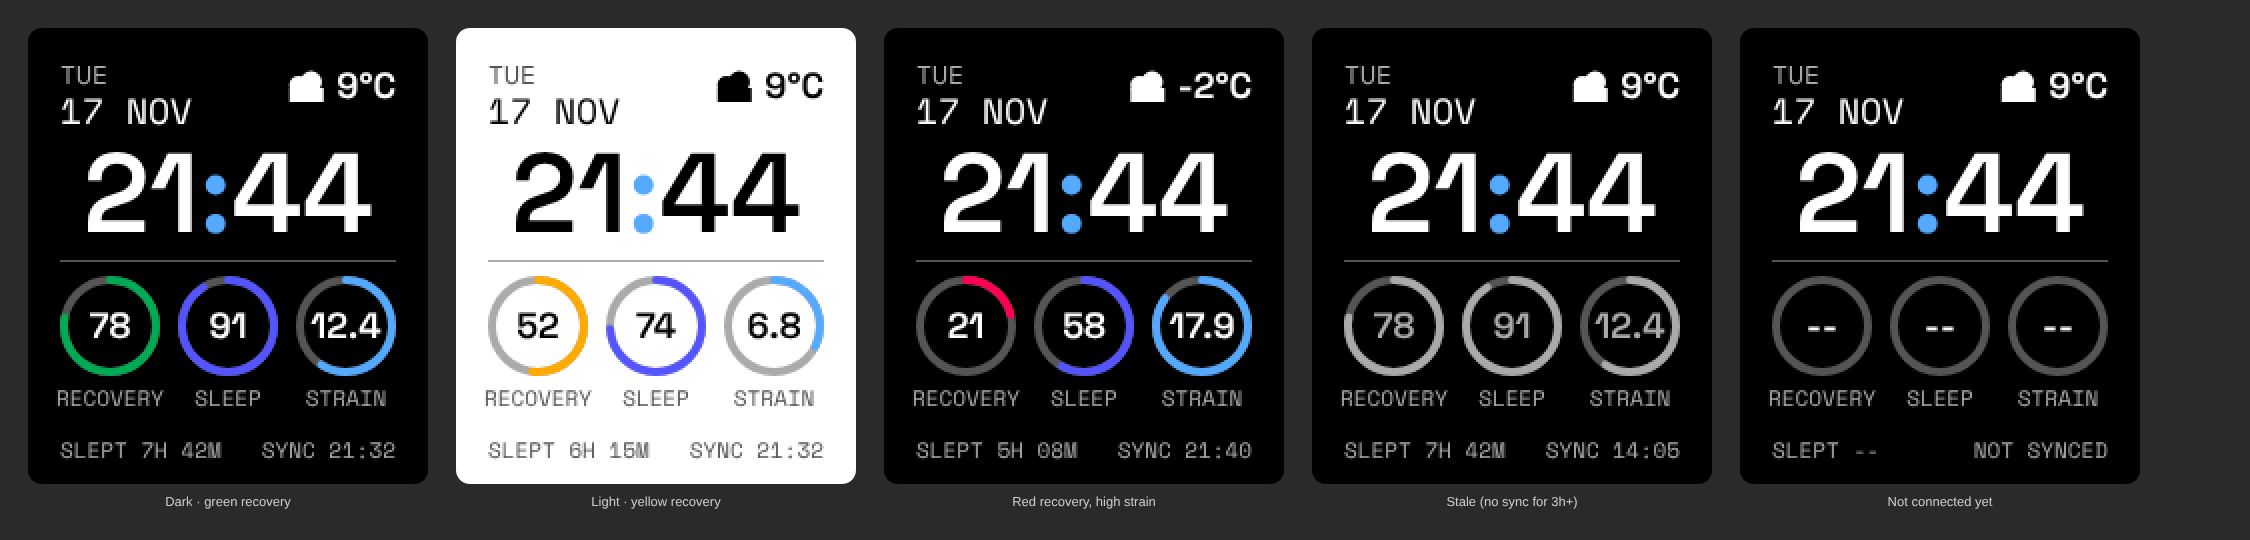
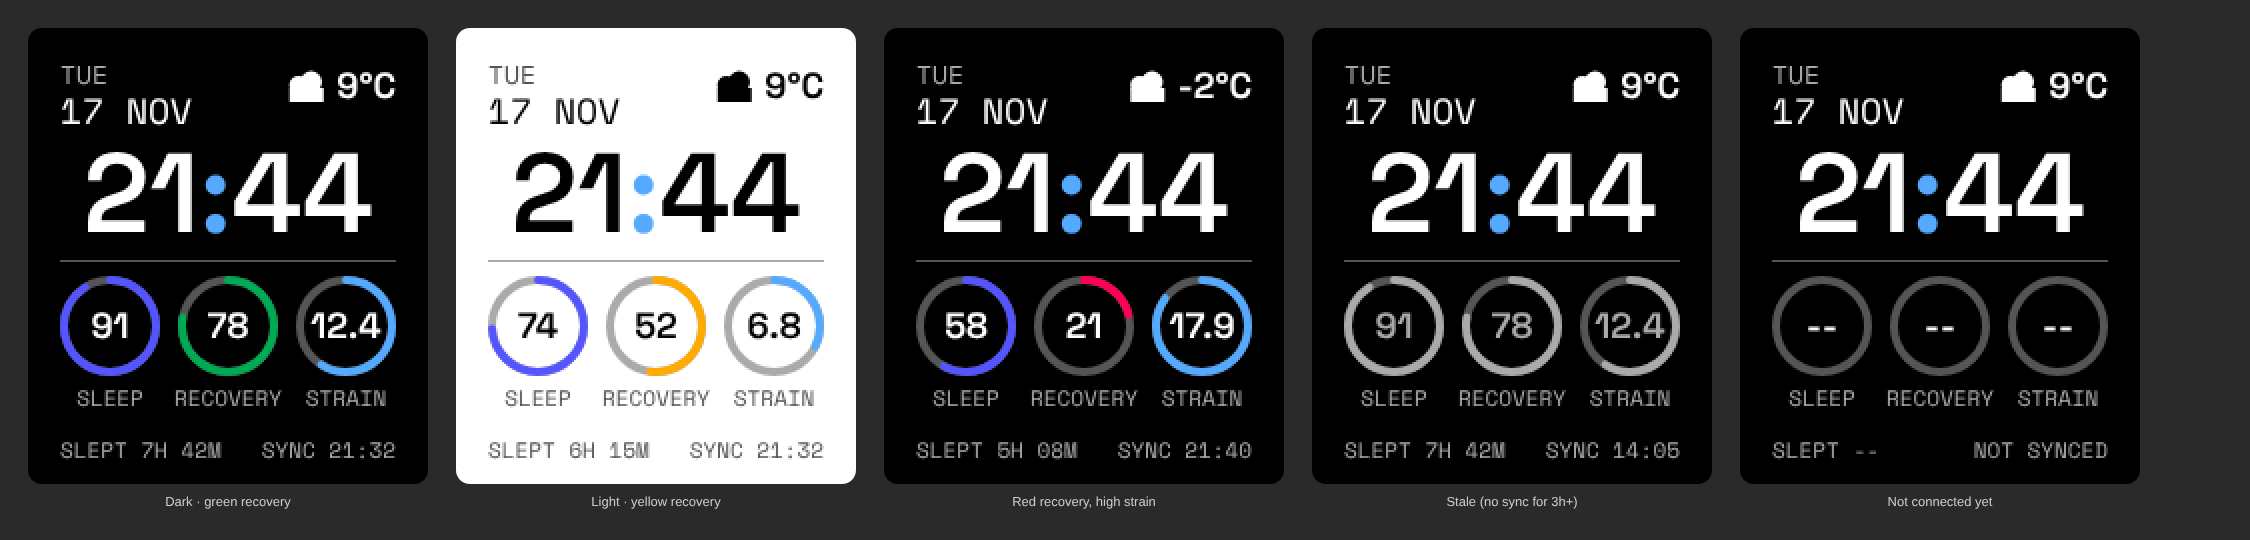
Order the rings sleep, recovery, strain
Claude-Session: https://claude.ai/code/session_01NiEAG9aW8Dywr44DrxqERW

diff --git a/whoop-watchface/src/c/whoop-watchface.c b/whoop-watchface/src/c/whoop-watchface.c
@@ -95,14 +95,14 @@ typedef enum {
 // The three gauges, left to right
 // ---------------------------------------------------------------------------
 typedef enum {
-  METRIC_RECOVERY = 0,
-  METRIC_SLEEP    = 1,
+  METRIC_SLEEP    = 0,
+  METRIC_RECOVERY = 1,
   METRIC_STRAIN   = 2,
   METRIC_COUNT
 } Metric;
 
 static const char * const METRIC_LABELS[METRIC_COUNT] = {
-  "RECOVERY", "SLEEP", "STRAIN"
+  "SLEEP", "RECOVERY", "STRAIN"
 };
 
 // Shown whenever there is no reading: never synced, or Whoop has not scored it.

diff --git a/whoop-watchface/README.md b/whoop-watchface/README.md
@@ -2,7 +2,7 @@
 
 A Whoop watchface for the **Pebble Time 2 (emery)**, in the same clean style as
 [Homezone](../console-watchface). The time sits up top; below it are three ring
-gauges for Whoop's core metrics: **recovery**, **sleep** and **strain**.
+gauges for Whoop's core metrics: **sleep**, **recovery** and **strain**.
 
 <p align="center">
   <img src="design-preview.png" alt="Design preview of Triad in five states">
@@ -33,15 +33,15 @@ off before any API work.
 
           21:44                  ← time (accent-coloured colon)
   ────────────────────────────
-   (78)      (91)      (12.4)    ← ring gauges
-  RECOVERY   SLEEP     STRAIN
+   (91)      (78)      (12.4)    ← ring gauges
+   SLEEP    RECOVERY   STRAIN
   SLEPT 7H 42M      SYNC 21:32   ← hours asleep · last Whoop sync
 ```
 
 | Ring | Value | Fill | Colour |
 |------|-------|------|--------|
-| Recovery | Recovery score, % | 0–100 | Whoop zone: green ≥ 67, yellow 34–66, red ≤ 33 |
 | Sleep | Sleep performance, % | 0–100 | Blue-violet |
+| Recovery | Recovery score, % | 0–100 | Whoop zone: green ≥ 67, yellow 34–66, red ≤ 33 |
 | Strain | Day strain, one decimal | 0–21 | Accent colour |
 
 - **Stale data:** if the last sync is more than 3 hours old, the rings and
